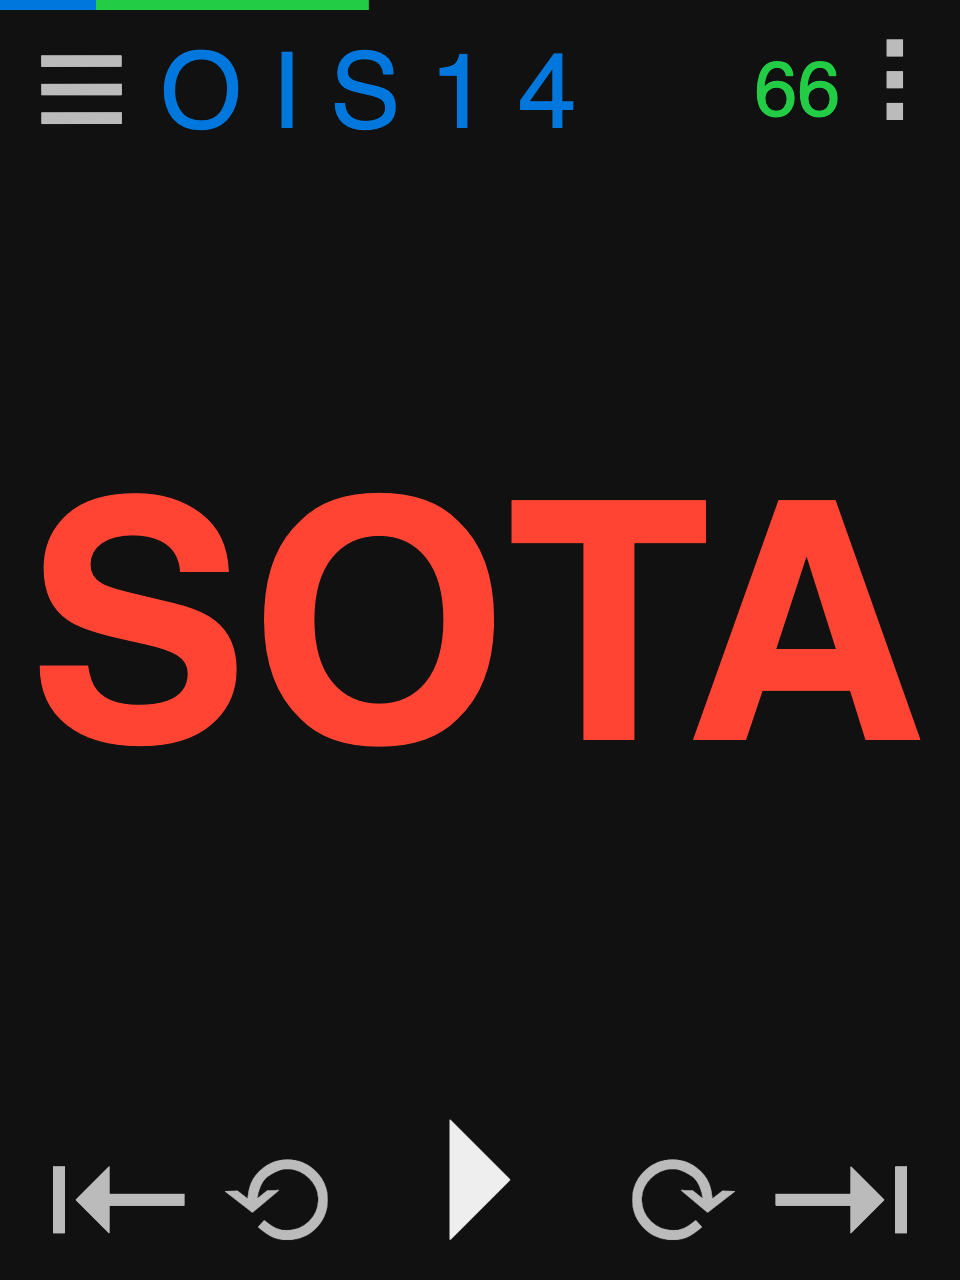
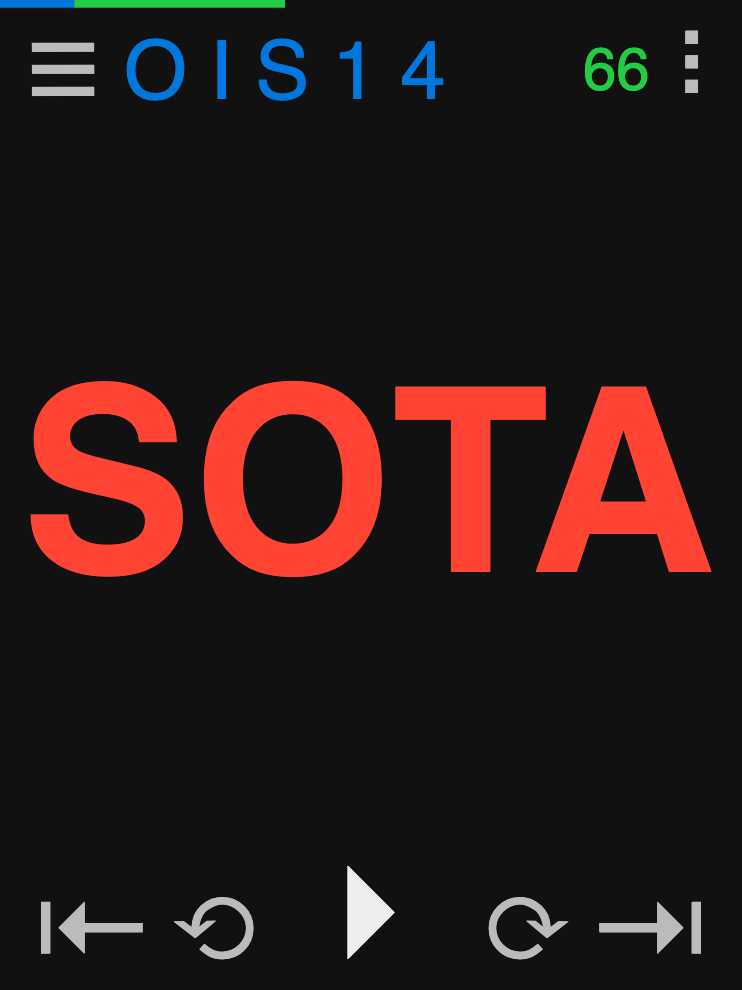
Help doct

diff --git a/tx/help/index.html b/tx/help/index.html
@@ -5,6 +5,9 @@
         body {
             font-family: sans-serif;
             }
+        img {
+            border: 1px solid black;
+        }
         </style>
         <meta name="viewport" content="width=device-width" />
         <link rel="shortcut icon" href="tx.png"> 
@@ -16,7 +19,7 @@
         <img src="main.png" width="240" height="320" />
         <hr />
         <h2>Copy Training</h2>
-        <p>Press the phrase (red) to hear the characters sounded.</p>
+        <p>Press the phrase (<span style="color: #f43">red</span>) to hear the characters sounded.</p>
         <img src="main-sound.png" width="240" height="320" />
         <p>Press play (▸) to sound each phrase; automatically advancing through the lesson. Phrases are hidden until sounded, then spoken and shown.</p>
         <img src="main-hidden.png" width="240" height="320" />
@@ -24,9 +27,9 @@
         <hr />
         <h2>Navigation</h2>
         <p>Navigate the phrases within each lesson by pressing left (⟲) and right (⟳) icons or with arrow keys on a keyboard. Navigate entire lessons by pressing left (⇤) and right (⇥) icons or with shift-arrow keys on a keyboard.</p>
-        <img src="main-footer.png" width="240" height="42" />
-        <p>The current lesson (blue) and a phrase countdown (green) are shown along with a thin progress bar along the top.</p>
-        <img src="main-header.png" width="240" height="42" />
+        <img src="main.png" width="240" height="320" style="width:240; height: 42; object-fit: cover; object-position: 100% -278px;" />
+        <p>The current lesson (<span style="color: #07d">blue</span>) and a phrase countdown (<span style="color: #2c4">green</span>) are shown along with a thin progress bar along the top.</p>
+        <img src="main.png" width="240" height="320" style="width:240; height: 42; object-fit: cover; object-position: 100% 0;" />
         <p>Select from a menu of lessons by pressing the (blue) title.</p>
         <img src="menu-lesson.png" width="240" height="320" />
         <p>Select from avalable sets of content by pressing the menu (☰) icon.</p>
@@ -34,5 +37,11 @@
         <h2>Settings</h2>
         <p>Press the ellipsis (⁝) icon to change settings.</p>
         <img src="settings.png" width="240" height="320" />
+        <p>The <b>Light/Dark</b> (☼/☽)</b> switch changes the color scheme throughout.</p>
+        <img src="settings-light.png" width="240" height="320" />
+        <img src="main-light.png" width="240" height="320" />
+        <p>The <b>Speed</b> setting determines the rate in words per minute (WPM) at which code is send and received. More precisely, it sets the unit "dit length." Dahs then are 3 dits long and space between elements is 1 dit. Normally, space between letters is 3 dits and between words is 7 dit (however, see the <b>Farnsworth</b> and <b>Wordsworth</b> settings below).</p>
+        <p>The canonical "word" is "PARIS" which is 50 dits long - including element, letter and trailing word spacing.</p>
+        <img src="paris.svg" width="100%" />
     </body>
 </html>
